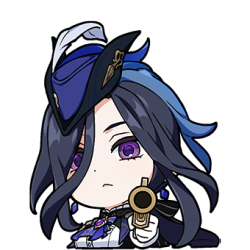
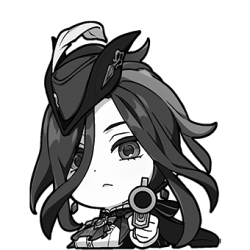
Fix table sizing, forced sideways scroll, and page jank
Sizes: the previous pass overshot. Table text is back to 0.85rem with tighter padding, headings trimmed, and the mobile breakpoints now reduce padding instead of increasing it. The 768px block had been setting larger padding than the desktop rule, which was working against the request.

Forced scroll: min-width: 640px made every table wider than its panel, so even a three-column table scrolled sideways while looking at nothing. Removed it - the table now takes the width it needs and the panel only scrolls on real overflow. Also removed scroll-snap, which was nudging the panel on load and fighting the sticky first column.

Lag - three separate causes:

- Sixteen decorative images each combined a CSS filter with an infinite float
  animation. A filter plus a transform animation is re-evaluated on the main
  thread every frame. The greyscale is now baked into the PNGs by
  scripts/prepare-artwork.mjs (originals kept in assets/source/img), so the
  filter is gone and the animation is a plain transform. This also cut the art
  from 500 KB to 284 KB.
- The home slideshow and portrait had the same filter, on a viewport-sized
  layer that re-rasterised on every crossfade. Also removed.
- Bruno Ace SC came from fonts.googleapis.com with display=swap: two round-trips
  before any text used the real face, then a full-page reflow when it swapped in.
  It is now self-hosted (15 KB, latin subset) and preloaded, with display:block
[…]

diff --git a/src/styles/services.css b/src/styles/services.css
@@ -89,7 +89,6 @@
      flick scrolls the table instead of chaining to the page. */
   -webkit-overflow-scrolling: touch;
   overscroll-behavior-x: contain;
-  scroll-snap-type: x proximity;
   background: var(--surface-2);
   border: 1px solid var(--border);
   border-radius: 0.8rem;
@@ -129,7 +128,7 @@
 .carousel h3 {
   font-family: var(--font-display);
   font-weight: 400;
-  font-size: 1.25rem;
+  font-size: 1.05rem;
   white-space: nowrap;
   margin-bottom: 1rem;
   padding-bottom: 0.8rem;
@@ -139,7 +138,7 @@
 .carousel h4 {
   font-family: var(--font-display);
   font-weight: 400;
-  font-size: 1.05rem;
+  font-size: 0.92rem;
   color: var(--text-muted);
   margin: 1.5rem 0 0.8rem;
   padding-bottom: 0.5rem;
@@ -153,7 +152,7 @@
 .note {
   font-family: var(--font-display);
   font-weight: 400;
-  font-size: 0.9rem;
+  font-size: 0.82rem;
   line-height: 1.6;
   color: var(--text-muted);
   margin-bottom: 1rem;
@@ -165,47 +164,42 @@
 
 /* ------------------------------ tables ---------------------------------- */
 .price-table {
-  /* Wider than the viewport on purpose: the columns are now large enough to
-     touch, so the table is expected to scroll sideways rather than compress.
-     640px keeps 5 columns readable before it needs to scroll on a phone. */
-  min-width: 640px;
+  /* No min-width. A fixed floor made the table wider than the panel even when
+     the columns fitted comfortably, so the panel scrolled sideways while
+     looking at nothing - it appeared to "force a swipe" on a table with only
+     three or four columns. The table now takes the width it actually needs and
+     the panel scrolls only when the content genuinely overflows. */
   width: 100%;
   border-collapse: separate;
   border-spacing: 0;
   margin: 0;
   font-family: var(--font-display);
-  font-size: 1rem;
+  font-size: 0.85rem;
   font-weight: 400;
 }
 
 .price-table th {
   background: var(--surface-3);
   font-weight: 400;
-  /* Taller rows and looser tracking: this face is a wide display cut, so it
-     needs the air to stay readable at a glance. */
-  padding: 1.15rem 1.1rem;
+  padding: 0.75rem 0.85rem;
   text-transform: uppercase;
-  font-size: 0.9rem;
-  letter-spacing: 1px;
+  font-size: 0.72rem;
+  letter-spacing: 0.5px;
   text-align: left;
   vertical-align: bottom;
   border-bottom: 2px solid var(--border-strong);
-  /* Each header column is a snap target, so a flick lands on a whole column
-     instead of between two. */
-  scroll-snap-align: start;
 }
 
 .price-table td,
 .price-table tbody th {
-  padding: 1.15rem 1.1rem;
+  padding: 0.7rem 0.85rem;
   border-bottom: 1px solid var(--border);
   white-space: nowrap;
-  font-size: 1rem;
+  font-size: 0.85rem;
   font-weight: 400;
   text-align: left;
   vertical-align: middle;
   color: var(--text-muted);
-  scroll-snap-align: start;
 }
 
 /* The first column is frozen so the item being priced stays on screen while the
@@ -338,8 +332,14 @@
   width: 64px;
   height: 64px;
   opacity: 0.14;
-  filter: grayscale(1) contrast(1.05);
   transition: opacity 0.3s ease;
+  /* No filter here on purpose. These sixteen images each run an infinite float
+     animation, and a filter combined with a transform animation is re-evaluated
+     every frame on the main thread, which is what made the page feel laggy and
+     busy while doing nothing. The greyscale is baked into the PNGs by
+     scripts/prepare-artwork.mjs instead, so the animation is now just a
+     compositor-friendly transform. */
+  will-change: transform;
 }
 
 .icon-small {
@@ -411,17 +411,18 @@
     width: calc(100% + 1rem);
   }
 
-  /* The type scale is NOT shrunk here. Bruno Ace SC is a wide face and the
-     point of the change was a larger, more legible table, so the old
-     0.85rem / 0.7rem step-down would undo it. Only the padding tightens. */
+  /* Tighten the padding on narrow screens. The type size is deliberately left
+     alone: it is already set small enough to read, and Bruno Ace SC is a wide
+     face, so scaling it down further only trades legibility for fit. The table
+     scrolls instead. */
   .price-table th,
   .price-table td,
   .price-table tbody th {
-    padding: 0.95rem 0.9rem;
+    padding: 0.6rem 0.7rem;
   }
 
   .price-table th {
-    font-size: 0.82rem;
+    font-size: 0.68rem;
   }
 
   .icon {
@@ -447,12 +448,12 @@
   .price-table th,
   .price-table td,
   .price-table tbody th {
-    padding: 0.85rem 0.75rem;
+    padding: 0.55rem 0.6rem;
   }
 
   .price-table th {
-    font-size: 0.75rem;
-    letter-spacing: 0.5px;
+    font-size: 0.64rem;
+    letter-spacing: 0.4px;
   }
 
   .carousel-nav {

diff --git a/index.html b/index.html
@@ -8,12 +8,48 @@
       content="Raahz Commissions - Genshin Impact piloting services. Prices and services for abyss, ascension, exploration, farming and more."
     />
     <link rel="icon" type="image/svg+xml" href="./favicon.svg" />
-    <link rel="preconnect" href="https://fonts.googleapis.com" />
-    <link rel="preconnect" href="https://fonts.gstatic.com" crossorigin />
+
+    <!--
+      Bruno Ace SC is self-hosted rather than pulled from fonts.googleapis.com.
+
+      Two reasons, both about how the page felt:
+
+      1. Speed. The Google Fonts route is two extra round-trips (the CSS, then
+         the woff2) before any text can use the real face. Self-hosted, the
+         preload below starts the 15 KB download during HTML parse, in parallel
+         with the JS bundle, instead of after it.
+      2. No reflow. `swap` paints the text immediately in a fallback face and
+         then reflows the whole page when the display face arrives. Since this
+         face is the card's identity, `block` is used instead: text is hidden
+         for at most the ~100ms the local file takes, and then appears once, in
+         the correct face, with no second layout. That swap-and-shuffle was a
+         large part of the "laggy" feeling on first load.
+
+      `font-display: block` is paired with a preload, so the font is normally
+      already in the cache by the time the first text paints.
+    -->
     <link
-      href="https://fonts.googleapis.com/css2?family=Bruno+Ace+SC&display=swap"
-      rel="stylesheet"
+      rel="preload"
+      href="./fonts/bruno-ace-sc-latin.woff2"
+      as="font"
+      type="font/woff2"
+      crossorigin
     />
+    <style>
+      @font-face {
+        font-family: 'Bruno Ace SC';
+        font-style: normal;
+        font-weight: 400;
+        font-display: block;
+        src: url('./fonts/bruno-ace-sc-latin.woff2') format('woff2');
+        /* The latin subset only. The card has no accented characters, so
+           shipping the latin-ext file as well would be dead weight. */
+        unicode-range: U+0000-00FF, U+0131, U+0152-0153, U+02BB-02BC, U+02C6,
+          U+02DA, U+02DC, U+0304, U+0308, U+0329, U+2000-206F, U+20AC, U+2122,
+          U+2191, U+2193, U+2212, U+2215, U+FEFF, U+FFFD;
+      }
+    </style>
+
     <meta name="theme-color" content="#1b1b1b" media="(prefers-color-scheme: dark)" />
     <meta name="theme-color" content="#ffffff" media="(prefers-color-scheme: light)" />
     <title>Raahz Card</title>

diff --git a/src/styles/home.css b/src/styles/home.css
@@ -154,7 +154,9 @@
   background-position: center;
   background-repeat: no-repeat;
   opacity: 0;
-  filter: grayscale(1) contrast(1.05);
+  /* Greyscale is baked into the PNGs by scripts/prepare-artwork.mjs. The filter
+     used to live here; on a full-bleed layer it re-rasterised a viewport-sized
+     image on every crossfade, so it is gone. */
   transition: opacity 800ms ease;
 }
 
@@ -186,8 +188,9 @@
   transition: transform 0.3s ease;
   will-change: transform;
   animation: portrait-glow 2.5s ease-in-out infinite;
-  /* Desaturated so the artwork matches the greyscale palette. */
-  filter: grayscale(1) contrast(1.05);
+  /* Greyscale is baked into the PNG by scripts/prepare-artwork.mjs, so no
+     filter is needed here. That matters because this element animates: a
+     filter plus an animation is re-evaluated on the main thread every frame. */
   /* Driven by useFloatAnimation through these custom properties. The float is
      translate + rotate only, so it can never shift the image off centre. */
   transform: translateY(var(--float-y, 0px)) rotate(var(--float-rot, 0deg));
